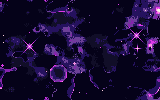
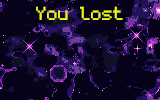
feat: temporary result screen

Changed region(s): [[0.5, 0.06, 0.7812, 0.21], [0.2188, 0.06, 0.4375, 0.21]]

diff --git a/src/main/java/dimhol/view/ResultScreen.java b/src/main/java/dimhol/view/ResultScreen.java
@@ -2,104 +2,34 @@ package dimhol.view;
 
 import dimhol.core.Engine;
 
-import javax.imageio.ImageIO;
 import javax.swing.*;
 import java.awt.*;
-import java.awt.event.ActionEvent;
-import java.awt.event.ActionListener;
-import java.awt.image.BufferedImage;
-import java.io.File;
-import java.io.IOException;
 
+/**
+ * Result screen.
+ */
 public class ResultScreen extends AbstractScreen {
 
-    private final Engine engine;
-    private final String message;
-    Timer timer;
-    int timeLeft;
-
-    public ResultScreen(Engine engine, boolean result) {
+    /**
+     * Constructs a ResultScreen.
+     *
+     * @param engine the engine
+     * @param result the result of the match
+     */
+    public ResultScreen(final Engine engine, final boolean result) {
         super(engine);
-        this.engine = engine;
-        var b = new JButton("return home");
-        b.addActionListener(e -> this.engine.getMainWindow().changePanel(new HomeScreen(engine)));
-        centerPanel.add(b);
-        this.message = result ? "WIN" : "LOSE";
-        try {
-            File fontFile = new File("src/main/resources/asset/hud/font/Fipps-Regular.ttf");
-            double fontSize = 50;
-            font = Font.createFont(Font.TRUETYPE_FONT, fontFile).deriveFont(Math.round(fontSize));
-        } catch (FontFormatException | IOException e) {
-            throw new RuntimeException(e);
-        }
-
+        var homeButton = new JButton("RETURN HOME");
+        homeButton.addActionListener(e -> this.engine.getMainWindow().changePanel(new HomeScreen(engine)));
+        homeButton.setFont(font);
+        homeButton.setForeground(new Color(102,0,153));
+        gbc.gridwidth = GridBagConstraints.REMAINDER;
+        gbc.anchor = GridBagConstraints.CENTER;
+        gbc.fill = GridBagConstraints.HORIZONTAL;
+        centerPanel.setLayout(new GridBagLayout());
+        centerPanel.add(homeButton, gbc);
+        gbc.weighty = 1;
+        this.add(centerPanel);
         this.background = new ImageIcon(result ? "src/main/resources/asset/bg/win_bg.png"
                 : "src/main/resources/asset/bg/lose_bg.png");
-
-        this.setLayout(new FlowLayout());
-        b.setPreferredSize(new Dimension(900,100));
-        //this.add(b);
-        b.setFont(font);
-
-        this.timeLeft = 5000; //5 seconds
-
-        this. timer = new Timer(1000, new ActionListener() {
-            @Override
-            public void actionPerformed(ActionEvent e) {
-                repaint();
-                timeLeft -= 1000;
-                if (timeLeft <= 0) {
-                    engine.getMainWindow().changePanel(new HomeScreen(engine));
-                    timer.stop();
-                }
-            }
-        });
-
-        timer.start();
-
-        gbc.gridwidth = GridBagConstraints.REMAINDER;
-        gbc.anchor = GridBagConstraints.NORTH;
-        title = new JLabel(message);
-        title.setFont(font);
-
-        this.add(title, gbc);
-    }
-
-    public void paintComponent(Graphics g) {
-        super.paintComponent(g);
-        g.setColor(Color.YELLOW);
-        this.drawCenteredString(g, "returning home in ... " + timeLeft/1000 + " seconds",
-                new Rectangle(this.getWidth(), this.getHeight()), font);
-    }
-
-    public void drawCenteredString(Graphics g, String text, Rectangle rect, Font font) {
-        // Get the FontMetrics
-        FontMetrics metrics = g.getFontMetrics(font);
-        // Determine the X coordinate for the text
-        int x = rect.x + (rect.width - metrics.stringWidth(text)) / 2;
-        // Determine the Y coordinate for the text (note we add the ascent, as in java 2d 0 is top of the screen)
-        int y = rect.y + ((rect.height - metrics.getHeight()) / 2) + metrics.getAscent();
-        // Set the font
-        g.setFont(font);
-        // Draw the String
-        g.drawString(text, x, y);
-    }
-
-    private BufferedImage loadWinImage() {
-        try {
-            return ImageIO.read(new File("src/main/resources/asset/bg/win_bg.png"));
-        } catch (IOException e) {
-            System.out.println("error");
-        }
-        return null;
-    }
-
-    private BufferedImage loadLoseImage() {
-        try {
-            return ImageIO.read(new File("src/main/resources/asset/bg/lose_bg.png"));
-        } catch (IOException e) {
-            System.out.println("error");
-        }
-        return null;
     }
 }

diff --git a/src/main/java/dimhol/view/PauseScreen.java b/src/main/java/dimhol/view/PauseScreen.java
@@ -20,7 +20,6 @@ public class PauseScreen extends AbstractScreen {
             engine.getMainWindow().changePanel(scene.getPanel());
             scene.setupInput();
             engine.resumeGame();
-
         });
         homeButton.addActionListener(e -> {
             engine.getMainWindow().changePanel(new HomeScreen(engine));
